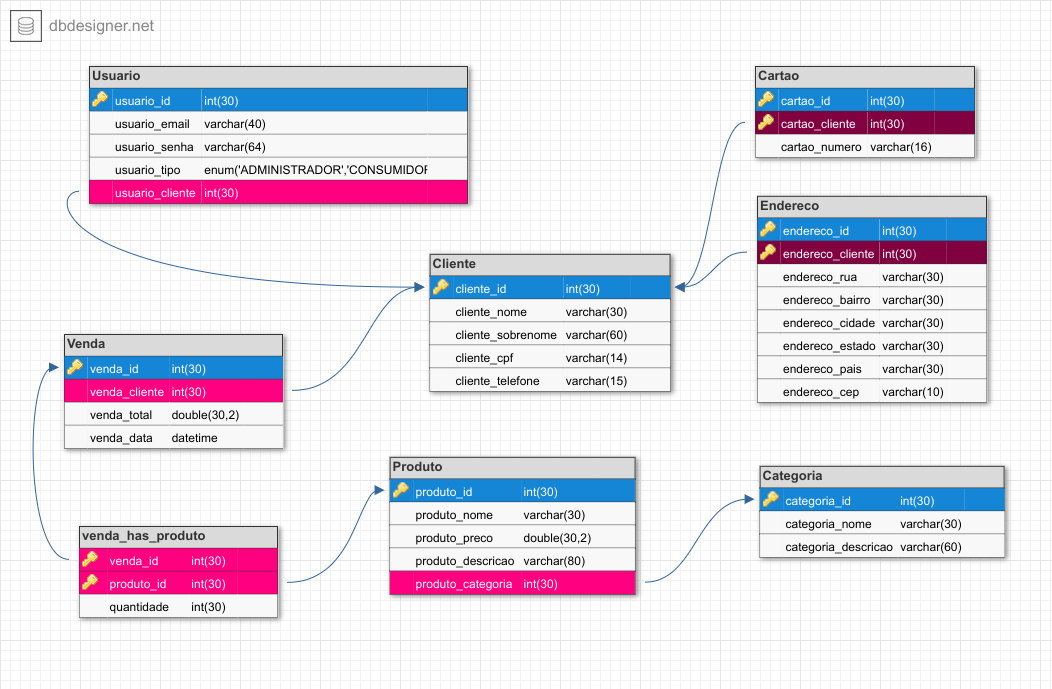
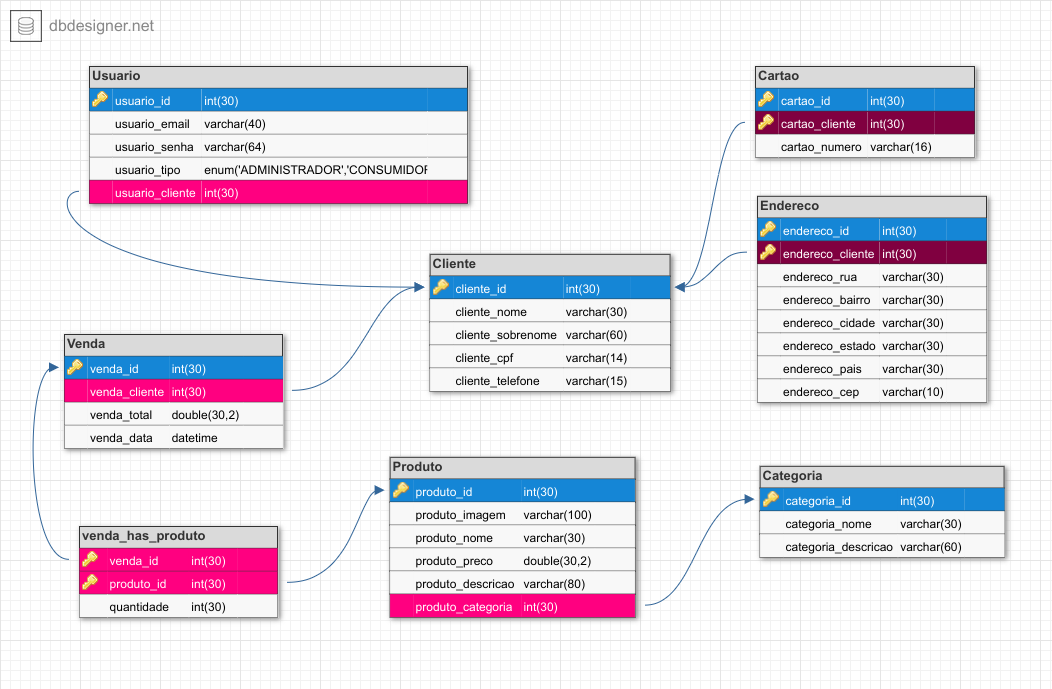
update: delete file if update

diff --git a/src/main/java/com/wassabi/wassabiapp/service/ProdutoService.java b/src/main/java/com/wassabi/wassabiapp/service/ProdutoService.java
@@ -26,16 +26,33 @@ public class ProdutoService {
     @Transactional
     public Produto saveProduto(Produto produto, MultipartFile file){
         if (file != null) {
+            try {
+                if (Files.deleteIfExists(new File(UPLOAD_DIRECTORY + produto.getProdutoImagem()).toPath())) {
+                    System.out.println("ARQUIVO DELETADO");
+                } else {
+                    System.out.println("ARQUIVO NÂO DELETADO");
+                }
+            } catch (IOException e) {
+                e.printStackTrace();
+            }
             File folder = new File(UPLOAD_DIRECTORY);
             if (!folder.exists()) {
                 folder.mkdir();
             }
-            Path fileNameAndPath = Paths.get(UPLOAD_DIRECTORY, UUID.randomUUID().toString().substring(0, 20) + ".png");
-            produto.setProdutoImagem(fileNameAndPath.toString());
+            String novo_nome;
+            Path path;
+            do {
+                novo_nome = UUID.randomUUID().toString() + ".png";
+                path = Paths.get(UPLOAD_DIRECTORY, novo_nome);
+                System.out.println(path.toString());
+            
+            } while(path.toFile().isFile());
+            
+            produto.setProdutoImagem(novo_nome);
             produto = saveProduto(produto);
             if (produto.getProdutoId() != 0) {
                 try {
-                    Files.write(fileNameAndPath, file.getBytes());
+                    Files.write(path, file.getBytes());
                 } catch (IOException e) {
                     e.printStackTrace();
                 }                
@@ -70,5 +87,4 @@ public class ProdutoService {
     // public Iterable<Produto> getProdutoByCategoria(int categoriaId){
     //     return produtoRepository.findByCategoria(categoriaId);
     // }
-
 }

diff --git a/src/main/java/com/wassabi/wassabiapp/controller/ProdutoController.java b/src/main/java/com/wassabi/wassabiapp/controller/ProdutoController.java
@@ -78,6 +78,7 @@ public class ProdutoController {
         return lista;
     }
 
+    @SuppressWarnings("unused")
     private ProdutoDTO convertToDTO(Produto produto) {
         ProdutoDTO produtoDTO = modelMapper.map(produto, ProdutoDTO.class);
         if (produto.getProdutoImagem() != null) {
@@ -98,14 +99,13 @@ public class ProdutoController {
         return produtoDTO;
     }
 
-    private FileToMultipartFile getImageFileSystem(String filePath) {
-        File file = new File(filePath);
-        FileToMultipartFile multi = new FileToMultipartFile(file);
+    private FileToMultipartFile getImageFileSystem(String fileName) {
+        FileToMultipartFile multi = new FileToMultipartFile(new File(ProdutoService.UPLOAD_DIRECTORY + fileName));
         return multi;
     }
 
     public byte[] getImageFileSystem2(String fileName) throws IOException {       
-        byte[] images = Files.readAllBytes(new File(fileName).toPath());
+        byte[] images = Files.readAllBytes(new File(ProdutoService.UPLOAD_DIRECTORY + fileName).toPath());
         return images;
     }
 

diff --git a/src/main/java/com/wassabi/wassabiapp/dto/Produto2DTO.java b/src/main/java/com/wassabi/wassabiapp/dto/Produto2DTO.java
@@ -2,7 +2,6 @@ package com.wassabi.wassabiapp.dto;
 
 import org.modelmapper.ModelMapper;
 import org.springframework.hateoas.RepresentationModel;
-import org.springframework.web.multipart.MultipartFile;
 
 import com.wassabi.wassabiapp.model.Categoria;
 import com.wassabi.wassabiapp.model.Produto;
